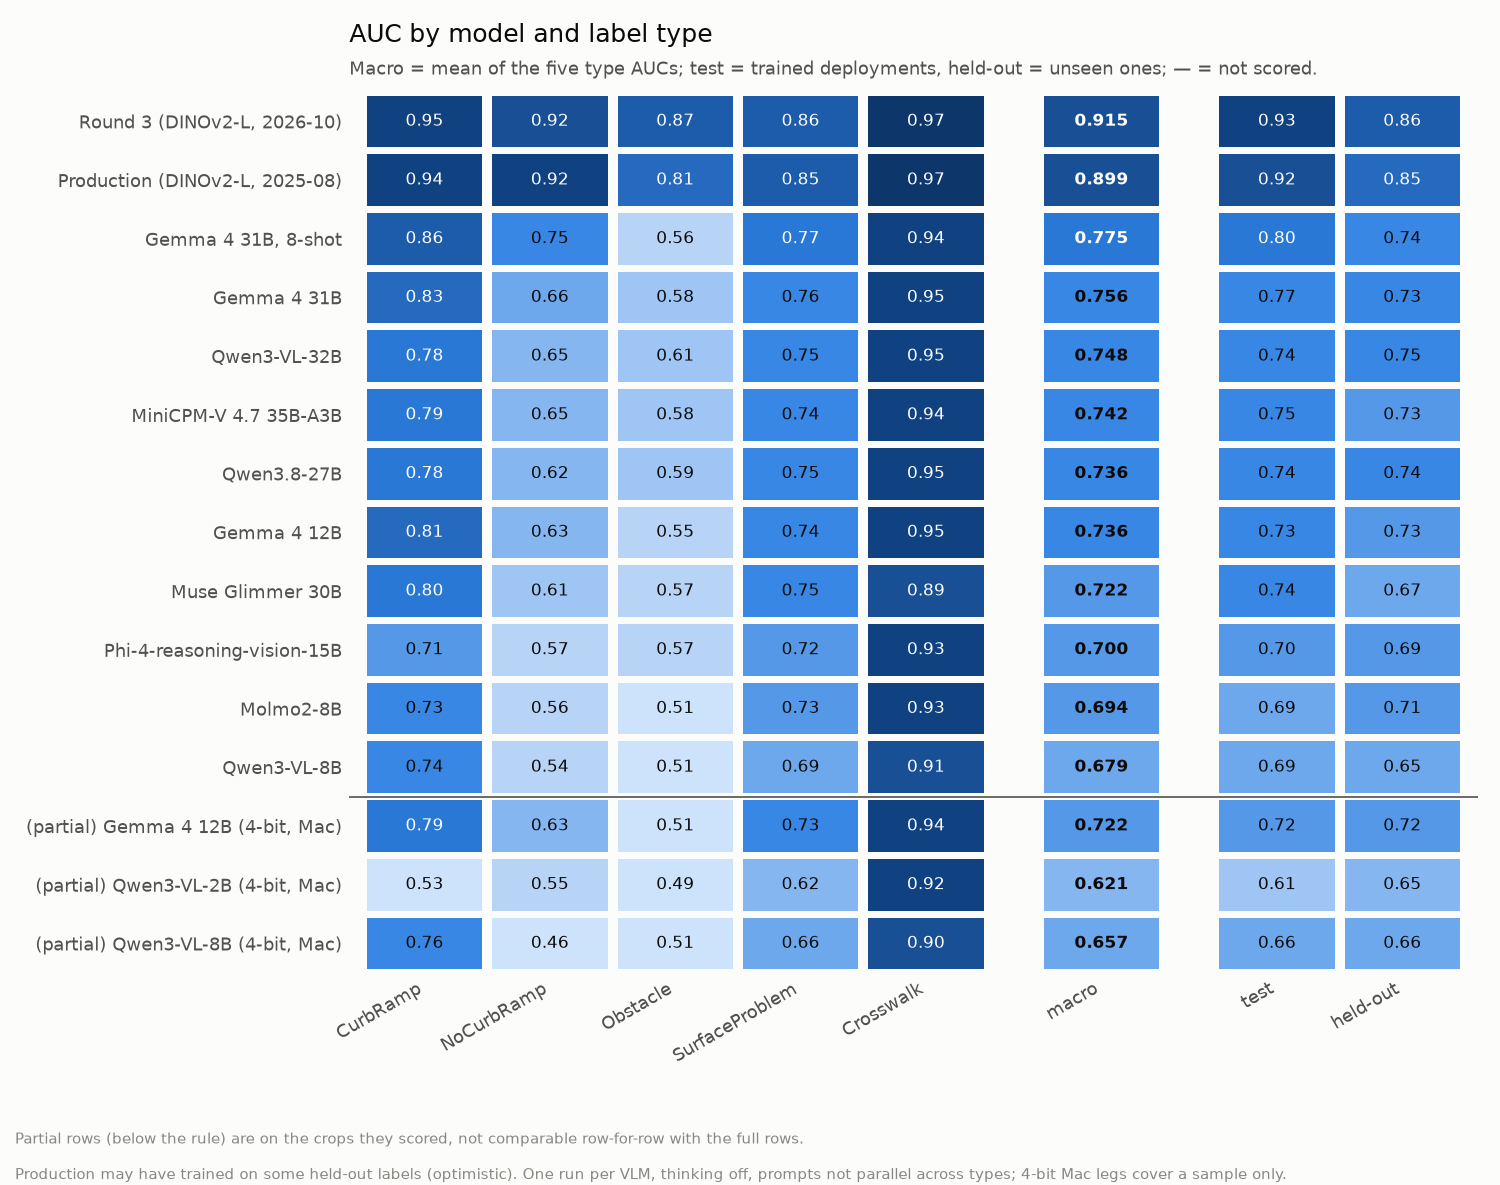
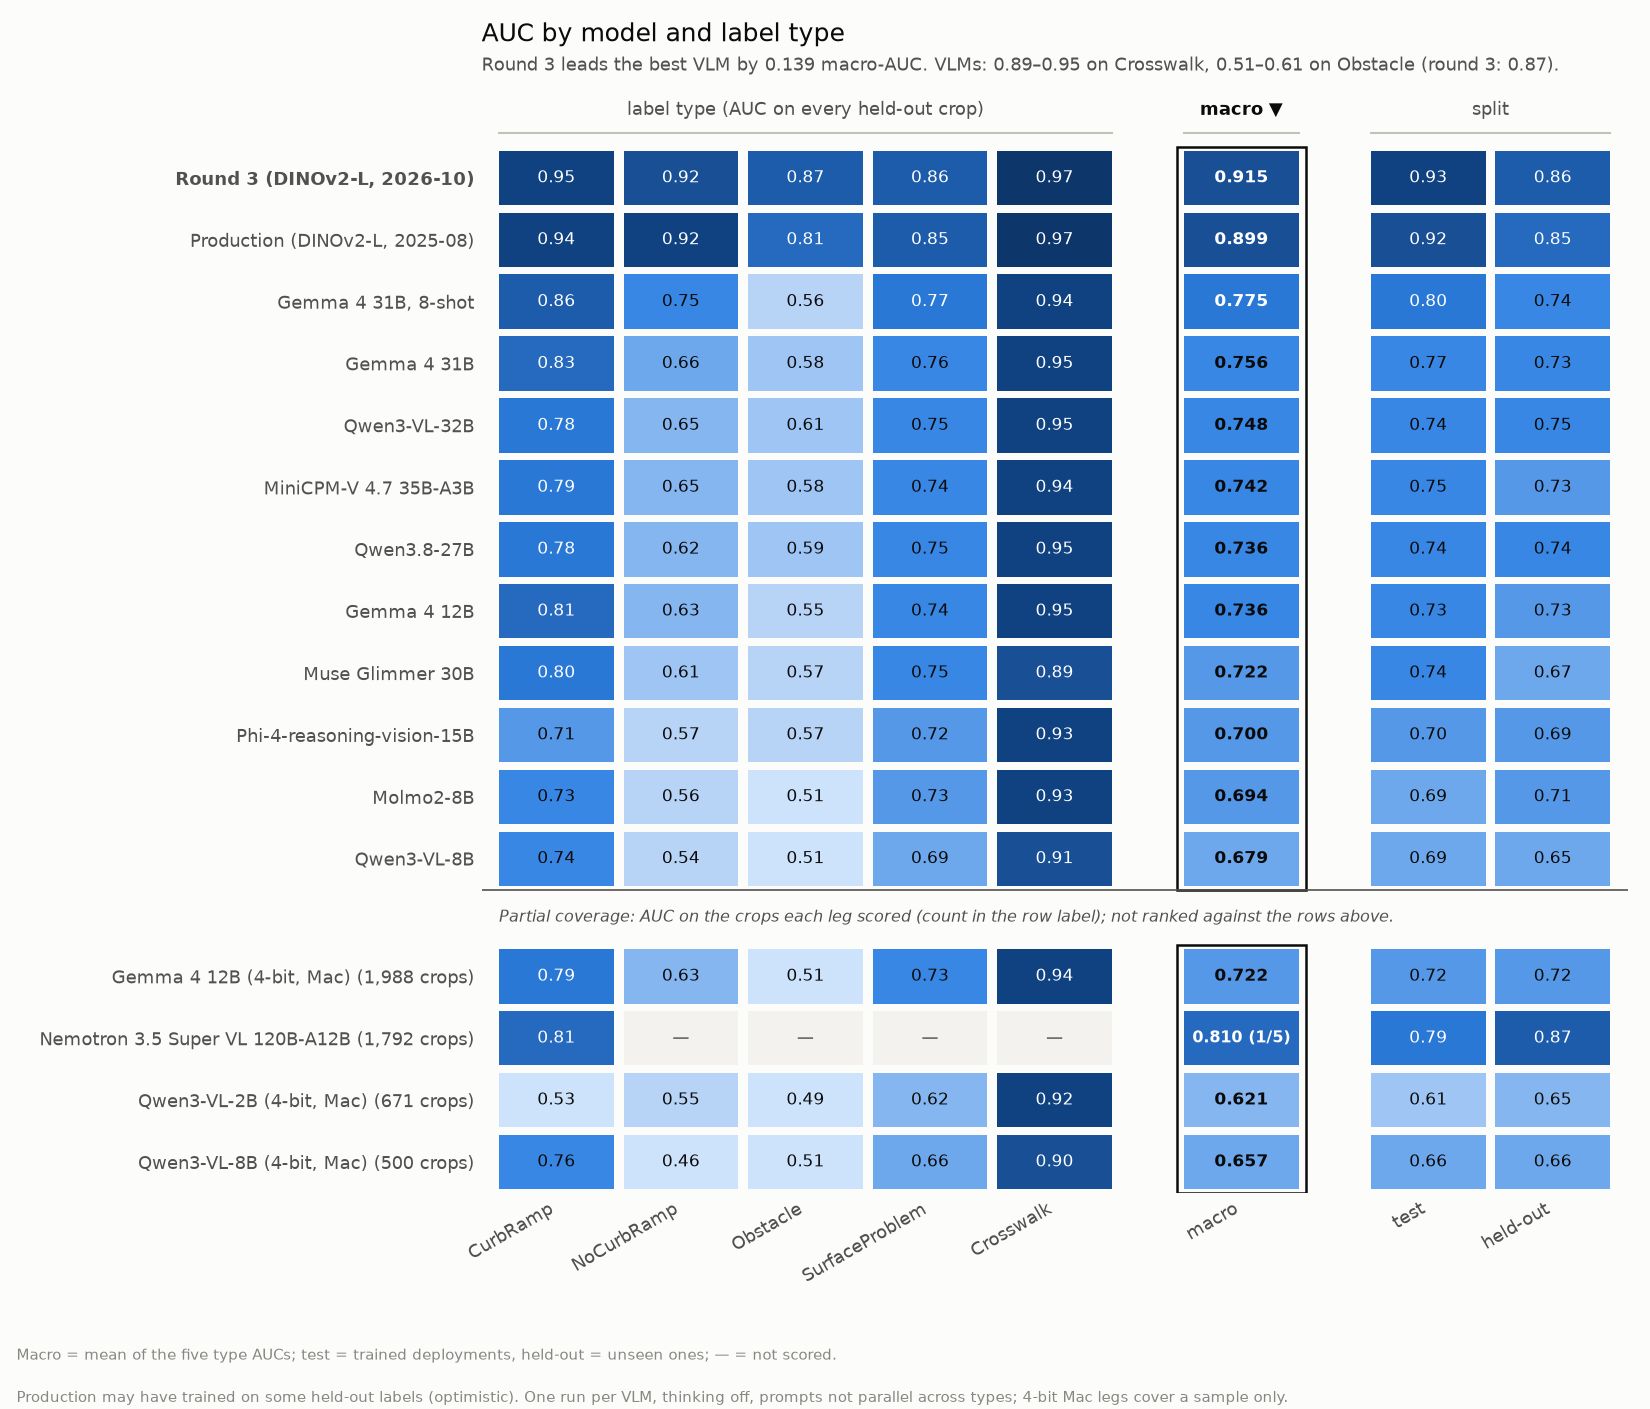
Heatmap in RampNet's scoreboard style; Nemotron CurbRamp partial on the board (#63)
by_type.png gains column-group headers, the boxed macro column, a
data-driven subtitle, crop counts on partial rows and the caption between
the ranked and partial blocks. Nemotron 3.5 Super VL appears as a partial
row (CurbRamp only, 1,792 crops) from the two quota-killed runs.

diff --git a/analysis/vlm_scoreboard.py b/analysis/vlm_scoreboard.py
@@ -776,44 +776,100 @@ def fig_leaderboard(b, path):
     plt.close(fig)
 
 
+def heatmap_subtitle(b):
+    """One data-driven line for the heatmap: the gap to the best full-coverage VLM, and the VLM range on the
+    strongest and weakest type against round 3.
+
+    >>> import pandas as pd
+    >>> b = pd.DataFrame({"leg": ["round3", "v1", "v2"], "model_class": ["purpose-trained", "chat VLM", "chat VLM"],
+    ...                   "full": [True, True, True], "macro_auc": [0.9, 0.8, 0.7],
+    ...                   "auc_CurbRamp": [0.95, 0.8, 0.7], "auc_NoCurbRamp": [0.9, 0.6, 0.5],
+    ...                   "auc_Obstacle": [0.85, 0.55, 0.5], "auc_SurfaceProblem": [0.85, 0.7, 0.7],
+    ...                   "auc_Crosswalk": [0.97, 0.95, 0.9]})
+    >>> heatmap_subtitle(b)
+    'Round 3 leads the best VLM by 0.100 macro-AUC. VLMs: 0.90–0.95 on Crosswalk, 0.50–0.55 on Obstacle (round 3: 0.85).'
+    """
+    full = b[b.full.astype(bool)]
+    r3 = full[full.leg == "round3"]
+    vlm = full[full.model_class != "purpose-trained"]
+    if r3.empty or vlm.empty:
+        return "Macro = mean of the five type AUCs; test = trained deployments, held-out = unseen ones; — = not scored."
+    r3 = r3.iloc[0]
+    gap = float(r3.macro_auc) - float(vlm.macro_auc.max())
+    med = {t: float(vlm[f"auc_{t}"].median()) for t in LABEL_TYPES}
+    hi, lo = max(med, key=med.get), min(med, key=med.get)
+    rng = lambda t: f"{vlm[f'auc_{t}'].min():.2f}–{vlm[f'auc_{t}'].max():.2f}"
+    return (f"Round 3 leads the best VLM by {gap:.3f} macro-AUC. VLMs: {rng(hi)} on {hi}, {rng(lo)} on {lo} "
+            f"(round 3: {getattr(r3, f'auc_{lo}'):.2f}).")
+
+
 def fig_by_type(b, path):
+    """The RampNet-style heatmap: legs as rows (full-coverage rows ranked by macro-AUC above the rule, partial rows
+    below it), the five types as columns, the boxed macro column, then the test / held-out split columns."""
     plt = _plt()
     from matplotlib.colors import BoundaryNorm, ListedColormap
     cols = list(LABEL_TYPES) + ["macro", "test", "held-out"]
     keys = [f"auc_{t}" for t in LABEL_TYPES] + ["macro_auc", "auc_test", "auc_heldout"]
     n = len(b)
-    fig, ax = plt.subplots(figsize=(10, 1.6 + 0.42 * max(n, 1)), facecolor=SURFACE)
+    n_full = int(b.full.astype(bool).sum())
+    gap_rows = 0.9 if 0 < n_full < n else 0.0           # room for the caption between the two blocks
+    ypos = [i + (gap_rows if i >= n_full else 0.0) for i in range(n)]
+    height = (n + gap_rows) * 0.42 + 2.3
+    fig, ax = plt.subplots(figsize=(11, height), facecolor=SURFACE)
     ax.set_facecolor(SURFACE)
     cmap, norm = ListedColormap(SEQ), BoundaryNorm(np.linspace(0.5, 1.0, len(SEQ) + 1), len(SEQ))
-    xpos = [0, 1, 2, 3, 4, 5.4, 6.8, 7.8]
+    xpos = [0, 1, 2, 3, 4, 5.5, 7.0, 8.0]
     for i, r in enumerate(b.itertuples()):
-        for j, (x, k) in enumerate(zip(xpos, keys)):
+        y = ypos[i]
+        partial = not bool(r.full)
+        for x, k in zip(xpos, keys):
             v = getattr(r, k)
             ok = v is not None and not (isinstance(v, float) and np.isnan(v))
             c = cmap(norm(max(min(v, 0.999), 0.5))) if ok else EMPTY
-            ax.add_patch(plt.Rectangle((x - 0.46, i - 0.44), 0.92, 0.88, color=c, lw=0))
-            txt = (f"{v:.3f}" if k == "macro_auc" else f"{v:.2f}") if ok else "—"
+            ax.add_patch(plt.Rectangle((x - 0.46, y - 0.44), 0.92, 0.88, color=c, lw=0))
+            if ok and k == "macro_auc":
+                txt = f"{v:.3f}" + (f" ({int(r.n_types)}/{len(LABEL_TYPES)})" if partial and r.n_types < len(LABEL_TYPES)
+                                    else "")
+            else:
+                txt = f"{v:.2f}" if ok else "—"
             light = ok and norm(max(min(v, 0.999), 0.5)) >= 7
-            ax.text(x, i, txt, ha="center", va="center", fontsize=8, color="#ffffff" if light else INK,
-                    fontweight="bold" if k == "macro_auc" else None)
-    n_full = int(b.full.astype(bool).sum())
-    if 0 < n_full < n:
-        ax.axhline(n_full - 0.5, color=INK2, lw=0.8)
-    ax.set_xlim(-0.6, 8.4)
-    ax.set_ylim(n - 0.5, -0.5)
+            ax.text(x, y, txt, ha="center", va="center", fontsize=7.5 if len(txt) > 5 else 8,
+                    color="#ffffff" if light else INK, fontweight="bold" if k == "macro_auc" else None)
+    # the boxed macro column, one box per block
+    for lo_i, hi_i in ((0, n_full), (n_full, n)):
+        if hi_i > lo_i:
+            ax.add_patch(plt.Rectangle((xpos[5] - 0.52, ypos[lo_i] - 0.5), 1.04, ypos[hi_i - 1] - ypos[lo_i] + 1.0,
+                                       fill=False, ec=INK, lw=1.2))
+    # column-group headers with a rule under each
+    for x0, x1, label, bold in ((xpos[0], xpos[4], "label type (AUC on every held-out crop)", False),
+                                (xpos[5], xpos[5], "macro ▼", True), (xpos[6], xpos[7], "split", False)):
+        ax.text((x0 + x1) / 2, -0.95, label, ha="center", va="bottom", fontsize=8.5, color=INK if bold else INK2,
+                fontweight="bold" if bold else None)
+        ax.plot([x0 - 0.46, x1 + 0.46], [-0.72, -0.72], color=BASELINE, lw=1.0)
+    if gap_rows:
+        yr = ypos[n_full] - 0.5 - gap_rows
+        ax.plot([xpos[0] - 0.6, xpos[7] + 0.6], [yr, yr], color=INK2, lw=0.8)
+        ax.text(xpos[0] - 0.46, yr + gap_rows / 2, "Partial coverage: AUC on the crops each leg scored (count in "
+                "the row label); not ranked against the rows above.", fontsize=7.5, color=INK2, style="italic",
+                va="center")
+    ax.set_xlim(-0.6, 8.6)
+    ax.set_ylim(ypos[-1] + 0.5, -1.4)
     ax.set_xticks(xpos)
     ax.set_xticklabels(cols, fontsize=8.5, rotation=30, ha="right")
-    ax.set_yticks(range(n))
-    ax.set_yticklabels([("" if bool(r.full) else "(partial) ") + r.display for r in b.itertuples()], fontsize=8.5)
+    ax.set_yticks(ypos)
+    ax.set_yticklabels([r.display + ("" if bool(r.full) else f" ({int(r.n):,} crops)") for r in b.itertuples()],
+                       fontsize=8.5)
+    for lab, r in zip(ax.get_yticklabels(), b.itertuples()):
+        if r.leg == "round3":
+            lab.set_fontweight("bold")
     for s in ax.spines.values():
         s.set_visible(False)
     ax.tick_params(length=0, colors=INK2)
-    _titles(ax, "AUC by model and label type", "Macro = mean of the five type AUCs; test = trained deployments, "
-            "held-out = unseen ones; — = not scored.")
-    fig.text(0.01, 0.035, "Partial rows (below the rule) are on the crops they scored, not comparable row-for-row "
-             "with the full rows.", fontsize=7, color=MUTED)
+    _titles(ax, "AUC by model and label type", heatmap_subtitle(b))
+    fig.text(0.01, 0.035, "Macro = mean of the five type AUCs; test = trained deployments, held-out = unseen ones; "
+             "— = not scored.", fontsize=7, color=MUTED)
     fig.text(0.01, 0.005, FOOTNOTE, fontsize=7, color=MUTED)
-    fig.tight_layout(rect=(0, 0.08, 1, 1))
+    fig.tight_layout(rect=(0, 0.07, 1, 1))
     fig.savefig(path, dpi=150, facecolor=SURFACE)
     plt.close(fig)
 

diff --git a/docs/vlm-scoreboard.md b/docs/vlm-scoreboard.md
@@ -13,7 +13,7 @@ style of RampNet's `docs/model_scoreboard.md`. Everything below the headings is 
 the aggregate tables are in `vlm-scoreboard/*.csv` and `vlm-scoreboard/provenance.json` pins every input by sha256.
 `python analysis/vlm_scoreboard.py build --check` fails if this page drifts from those tables.
 
-The board has 15 legs, 12 of them scored all 13,144 held-out crops. Round 3 leads the best VLM (Gemma 4 31B, 8-shot) by
+The board has 16 legs, 12 of them scored all 13,144 held-out crops. Round 3 leads the best VLM (Gemma 4 31B, 8-shot) by
 0.139 macro-AUC on the crops both scored.
 
 ## Short answer
@@ -55,6 +55,7 @@ rows.
 | 12 | Qwen3-VL-8B | chat VLM | 0.679 [0.670, 0.688] | 0.737 | 0.540 | 0.515 | 0.692 | 0.912 | 0.686 | 0.654 | 0.669 | 0.609 | 0.094 | -0.235 [-0.246, -0.227] | 0.131 (NVIDIA A40, 16) | 13,144 / 13,144 |
 |  | *partial coverage, not ranked against the rows above* |  |  |  |  |  |  |  |  |  |  |  |  |  |  |  |
 |  | Gemma 4 12B (4-bit, Mac) | chat VLM | 0.722 [0.702, 0.745] | 0.790 | 0.634 | 0.508 | 0.735 | 0.944 | 0.724 | 0.718 | 0.696 | 0.625 | 0.185 | -0.183 [-0.206, -0.162] | 2.33 (Apple M1 Max (MLX), 1) | 1,988 / 13,144 |
+|  | Nemotron 3.5 Super VL 120B-A12B | chat VLM | 0.810 [0.791, 0.831] | 0.810 | — | — | — | — | 0.792 | 0.875 | 0.855 | 0.705 | 0.003 | -0.154 [-0.174, -0.135] | — | 1,792 / 13,144 |
 |  | Qwen3-VL-2B (4-bit, Mac) | chat VLM | 0.621 [0.578, 0.662] | 0.530 | 0.546 | 0.486 | 0.618 | 0.924 | 0.613 | 0.648 | 0.629 | 0.570 | 0.152 | -0.286 [-0.334, -0.236] | 0.717 (Apple M1 Max (MLX), 1) | 671 / 13,144 |
 |  | Qwen3-VL-8B (4-bit, Mac) | chat VLM | 0.657 [0.611, 0.701] | 0.761 | 0.457 | 0.515 | 0.656 | 0.895 | 0.655 | 0.658 | 0.633 | 0.614 | 0.100 | -0.248 [-0.298, -0.201] | 2.19 (Apple M1 Max (MLX), 1) | 500 / 13,144 |
 
@@ -135,6 +136,7 @@ rows.
 | Gemma 4 12B (4-bit, Mac) | NoCurbRamp | 400 | 200 | 0.634 [0.580, 0.689] | 0.616 | 0.673 | 0.607 (8) | 0.507 | 0.010 |
 | Gemma 4 12B (4-bit, Mac) | Obstacle | 400 | 200 | 0.508 [0.453, 0.562] | 0.500 | 0.518 | 0.471 (7) | 0.505 | 0.015 |
 | Gemma 4 12B (4-bit, Mac) | SurfaceProblem | 400 | 200 | 0.735 [0.689, 0.783] | 0.777 | 0.668 | 0.678 (9) | 0.665 | 0.000 |
+| Nemotron 3.5 Super VL 120B-A12B | CurbRamp | 1,792 | 766 | 0.810 [0.791, 0.831] | 0.792 | 0.875 | 0.855 (22) | 0.705 | 0.003 |
 | Qwen3-VL-2B (4-bit, Mac) | Crosswalk | 100 | 50 | 0.924 [0.863, 0.971] | 0.938 | 0.910 | 0.943 (4) | 0.850 | 0.680 |
 | Qwen3-VL-2B (4-bit, Mac) | CurbRamp | 271 | 126 | 0.530 [0.460, 0.597] | 0.504 | 0.682 | 0.565 (10) | 0.499 | 0.000 |
 | Qwen3-VL-2B (4-bit, Mac) | NoCurbRamp | 100 | 50 | 0.546 [0.432, 0.657] | 0.504 | 0.605 | 0.504 (2) | 0.500 | 0.000 |
@@ -201,6 +203,8 @@ draws (seed 20261021). A partial leg's comparison is on its own crops only.
 | Muse Glimmer 30B | SurfaceProblem | 3,102 | 0.746 | 0.855 | -0.110 [-0.127, -0.091] |
 | Muse Glimmer 30B | Crosswalk | 583 | 0.891 | 0.972 | -0.081 [-0.106, -0.058] |
 | Muse Glimmer 30B | macro (5 types) | 13,144 | 0.722 | 0.915 | -0.192 [-0.202, -0.184] |
+| Nemotron 3.5 Super VL 120B-A12B | CurbRamp | 1,792 | 0.810 | 0.965 | -0.154 [-0.174, -0.135] |
+| Nemotron 3.5 Super VL 120B-A12B | macro (1 types) | 1,792 | 0.810 | 0.965 | -0.154 [-0.174, -0.135] |
 | Phi-4-reasoning-vision-15B | CurbRamp | 2,025 | 0.709 | 0.953 | -0.245 [-0.268, -0.223] |
 | Phi-4-reasoning-vision-15B | NoCurbRamp | 3,356 | 0.569 | 0.920 | -0.351 [-0.372, -0.329] |
 | Phi-4-reasoning-vision-15B | Obstacle | 4,078 | 0.566 | 0.873 | -0.307 [-0.327, -0.287] |
@@ -339,6 +343,7 @@ Crops scored per (model, type) out of the held-out crops of that type, and why a
 | MiniCPM-V 4.7 35B-A3B | 2,025 / 2,025 | 3,356 / 3,356 | 4,078 / 4,078 | 3,102 / 3,102 | 583 / 583 |  |
 | Molmo2-8B | 2,025 / 2,025 | 3,356 / 3,356 | 4,078 / 4,078 | 3,102 / 3,102 | 583 / 583 |  |
 | Muse Glimmer 30B | 2,025 / 2,025 | 3,356 / 3,356 | 4,078 / 4,078 | 3,102 / 3,102 | 583 / 583 |  |
+| Nemotron 3.5 Super VL 120B-A12B | 1,792 / 2,025 | 0 / 3,356 | 0 / 4,078 | 0 / 3,102 | 0 / 583 | not scored yet: needs 2 H200 (249 GB bf16); preempted three times on klone's ckpt partition during its 25-minute weight load; job left queued, resumable |
 | Phi-4-reasoning-vision-15B | 2,025 / 2,025 | 3,356 / 3,356 | 4,078 / 4,078 | 3,102 / 3,102 | 583 / 583 |  |
 | Production (DINOv2-L, 2025-08) | 2,025 / 2,025 | 3,356 / 3,356 | 4,078 / 4,078 | 3,102 / 3,102 | 583 / 583 |  |
 | Qwen3.8-27B | 2,025 / 2,025 | 3,356 / 3,356 | 4,078 / 4,078 | 3,102 / 3,102 | 583 / 583 |  |
@@ -347,7 +352,6 @@ Crops scored per (model, type) out of the held-out crops of that type, and why a
 | Qwen3-VL-8B | 2,025 / 2,025 | 3,356 / 3,356 | 4,078 / 4,078 | 3,102 / 3,102 | 583 / 583 |  |
 | Qwen3-VL-8B (4-bit, Mac) | 100 / 2,025 | 100 / 3,356 | 100 / 4,078 | 100 / 3,102 | 100 / 583 | 4-bit, Mac, sample (#16's 1,988-crop sample or its 500-crop subset) |
 | Round 3 (DINOv2-L, 2026-10) | 2,025 / 2,025 | 3,356 / 3,356 | 4,078 / 4,078 | 3,102 / 3,102 | 583 / 583 |  |
-| Nemotron 3.5 Super VL 120B-A12B | 0 / 2,025 | 0 / 3,356 | 0 / 4,078 | 0 / 3,102 | 0 / 583 | not scored yet: needs 2 H200 (249 GB bf16); preempted three times on klone's ckpt partition during its 25-minute weight load; job left queued, resumable |
 | GLM-5.3-Flash (FP8, vLLM) | 0 / 2,025 | 0 / 3,356 | 0 / 4,078 | 0 / 3,102 | 0 / 583 | not run: klone SSH master lost before the full run; vLLM path validated on Qwen3-VL-8B (same 40 crops, same verdict on 39 of 40, mean |dp| 0.009) |
 
 <!-- END GENERATED: coverage -->
